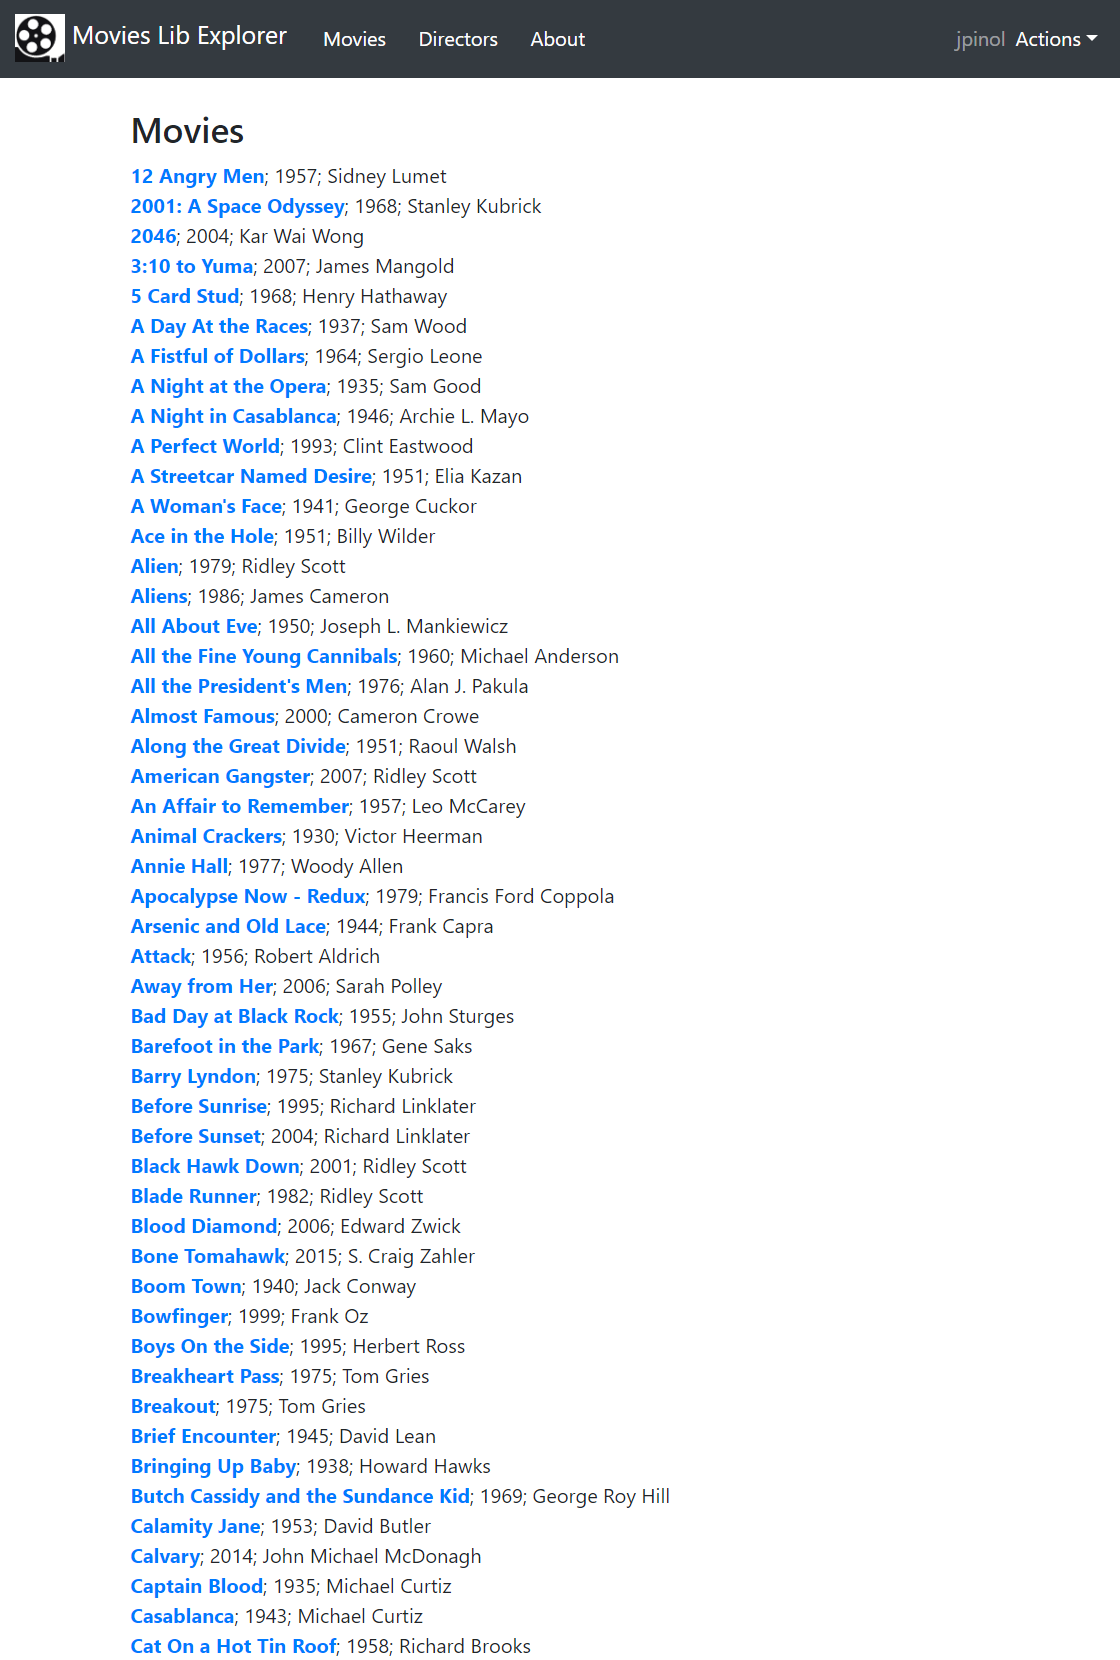
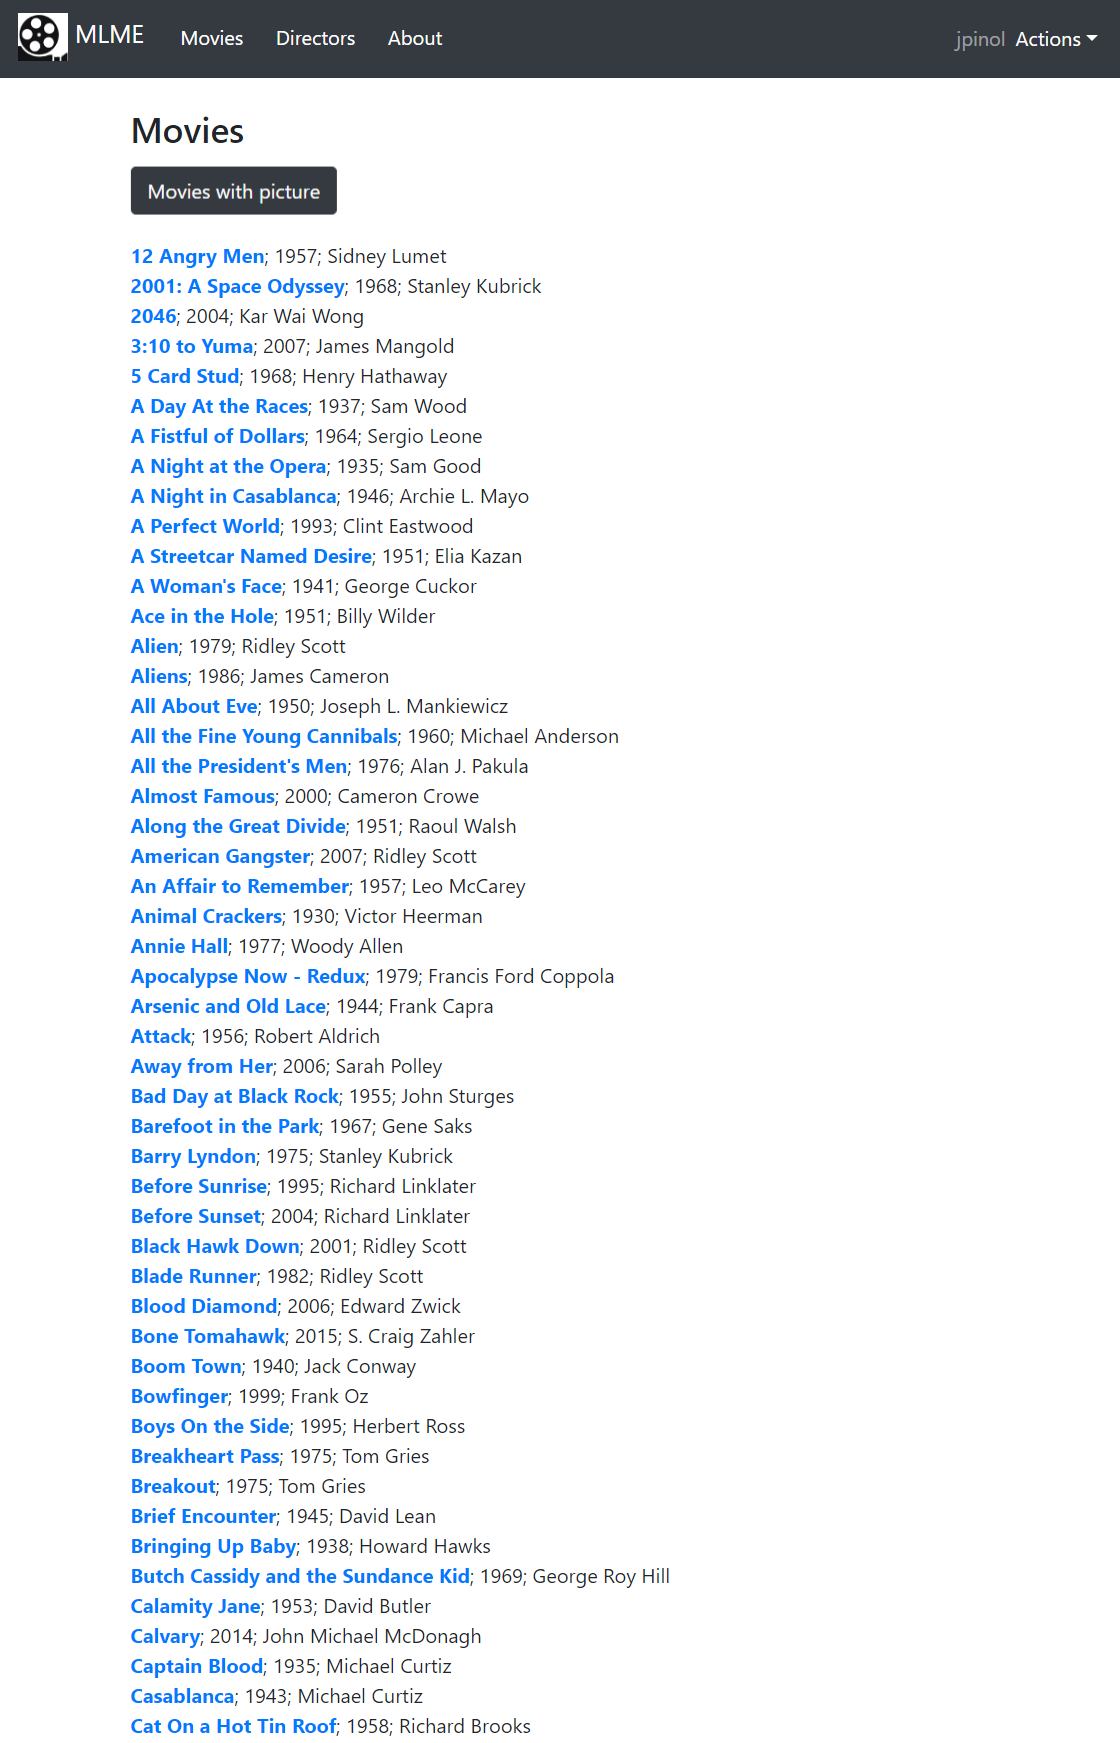
[IMP] Minor improvements.

diff --git a/templates/catalog/movie_with_picture_list.html b/templates/catalog/movie_with_picture_list.html
@@ -5,23 +5,29 @@
 {% block content %}
     <br/>
     <h3>Movies with picture</h3>
+    <br/>
     <p>
+    <div class="grid-wrapper">
         {% for movie in movies %}
-            {% if movie.picture %}
-                <img src="{{ movie.picture.url }}" style="max-height:400px">
-            {% elif not movie.picture and request.user.is_authenticated %}
-                <a class="btn btn-sm btn-dark" id="id_movie_upload"
-                   href="{% url 'upload_movie_photo' movie.id %}">Upload Movie Photo</a>
-            {% endif %}
-            <br/>
-            <b><a href="{% url 'movie' movie_id=movie.id %}">{{ movie.title }}</a></b>;
-            {{ movie.year }};
-            {% if movie.director.first_name %}{{ movie.director.first_name }}{% endif %}
-            {% if movie.director.last_name %} {{ movie.director.last_name }}{% endif %}
-            <br/> <br/>
-
+            <div class="grid-item">
+                <p>
+                    {% if movie.picture %}
+                        <img src="{{ movie.picture.url }}" style="max-height:400px">
+                    {% elif not movie.picture and request.user.is_authenticated %}
+                        <a class="btn btn-sm btn-dark" id="id_movie_upload"
+                           href="{% url 'upload_movie_photo' movie.id %}">Upload Movie Photo</a>
+                    {% endif %}
+                    <br/>
+                    <b><a href="{% url 'movie' movie_id=movie.id %}">{{ movie.title }}</a></b><br/>
+                    {{ movie.year }}
+                    {% if movie.director.first_name %}{{ movie.director.first_name }}{% endif %}
+                    {% if movie.director.last_name %} {{ movie.director.last_name }}{% endif %}
+                    <br/> <br/>
+                </p>
+            </div>
         {% empty %}
             <i>There are no movies with picture in the database.</i>
         {% endfor %}
+    </div>
     </p>
 {% endblock content %}

diff --git a/templates/catalog/movie.html b/templates/catalog/movie.html
@@ -46,7 +46,7 @@
 
     <p>
         {% if movie.picture %}
-            <img src="{{ movie.picture.url }}" style="max-height:250px">
+            <img src="{{ movie.picture.url }}" style="max-height:750px">
         {% elif not movie.picture and request.user.is_authenticated %}
             <a class="btn btn-sm btn-dark" id="id_movie_upload"
                href="{% url 'upload_movie_photo' movie.id %}">Upload Movie Photo</a>

diff --git a/static/css/site.css b/static/css/site.css
@@ -30,3 +30,18 @@ footer a:hover {
     height: 38px;
     width: auto;
 }
+
+.grid-wrapper {
+    display: grid;
+    grid-template-columns: repeat(4, 1fr);
+    grid-auto-rows: 450px;
+    grid-gap: 1rem;
+    grid-auto-flow: row;
+}
+
+.grid-item {
+    background: #ffffff;
+    display: flex;
+    justify-content: left;
+    align-items: center;
+}

diff --git a/README.md b/README.md
@@ -23,7 +23,8 @@
 <img src="screenshots/screenshot1.png"> <br/> <br/>
 <img src="screenshots/screenshot2.png"> <br/> <br/>
 <img src="screenshots/screenshot3.png"> <br/> <br/>
-<img src="screenshots/screenshot4.png"> <br/>
+<img src="screenshots/screenshot4.png"> <br/> <br/>
+<img src="screenshots/screenshot5.png"> <br/>
 
 
 **To make this app server work**
